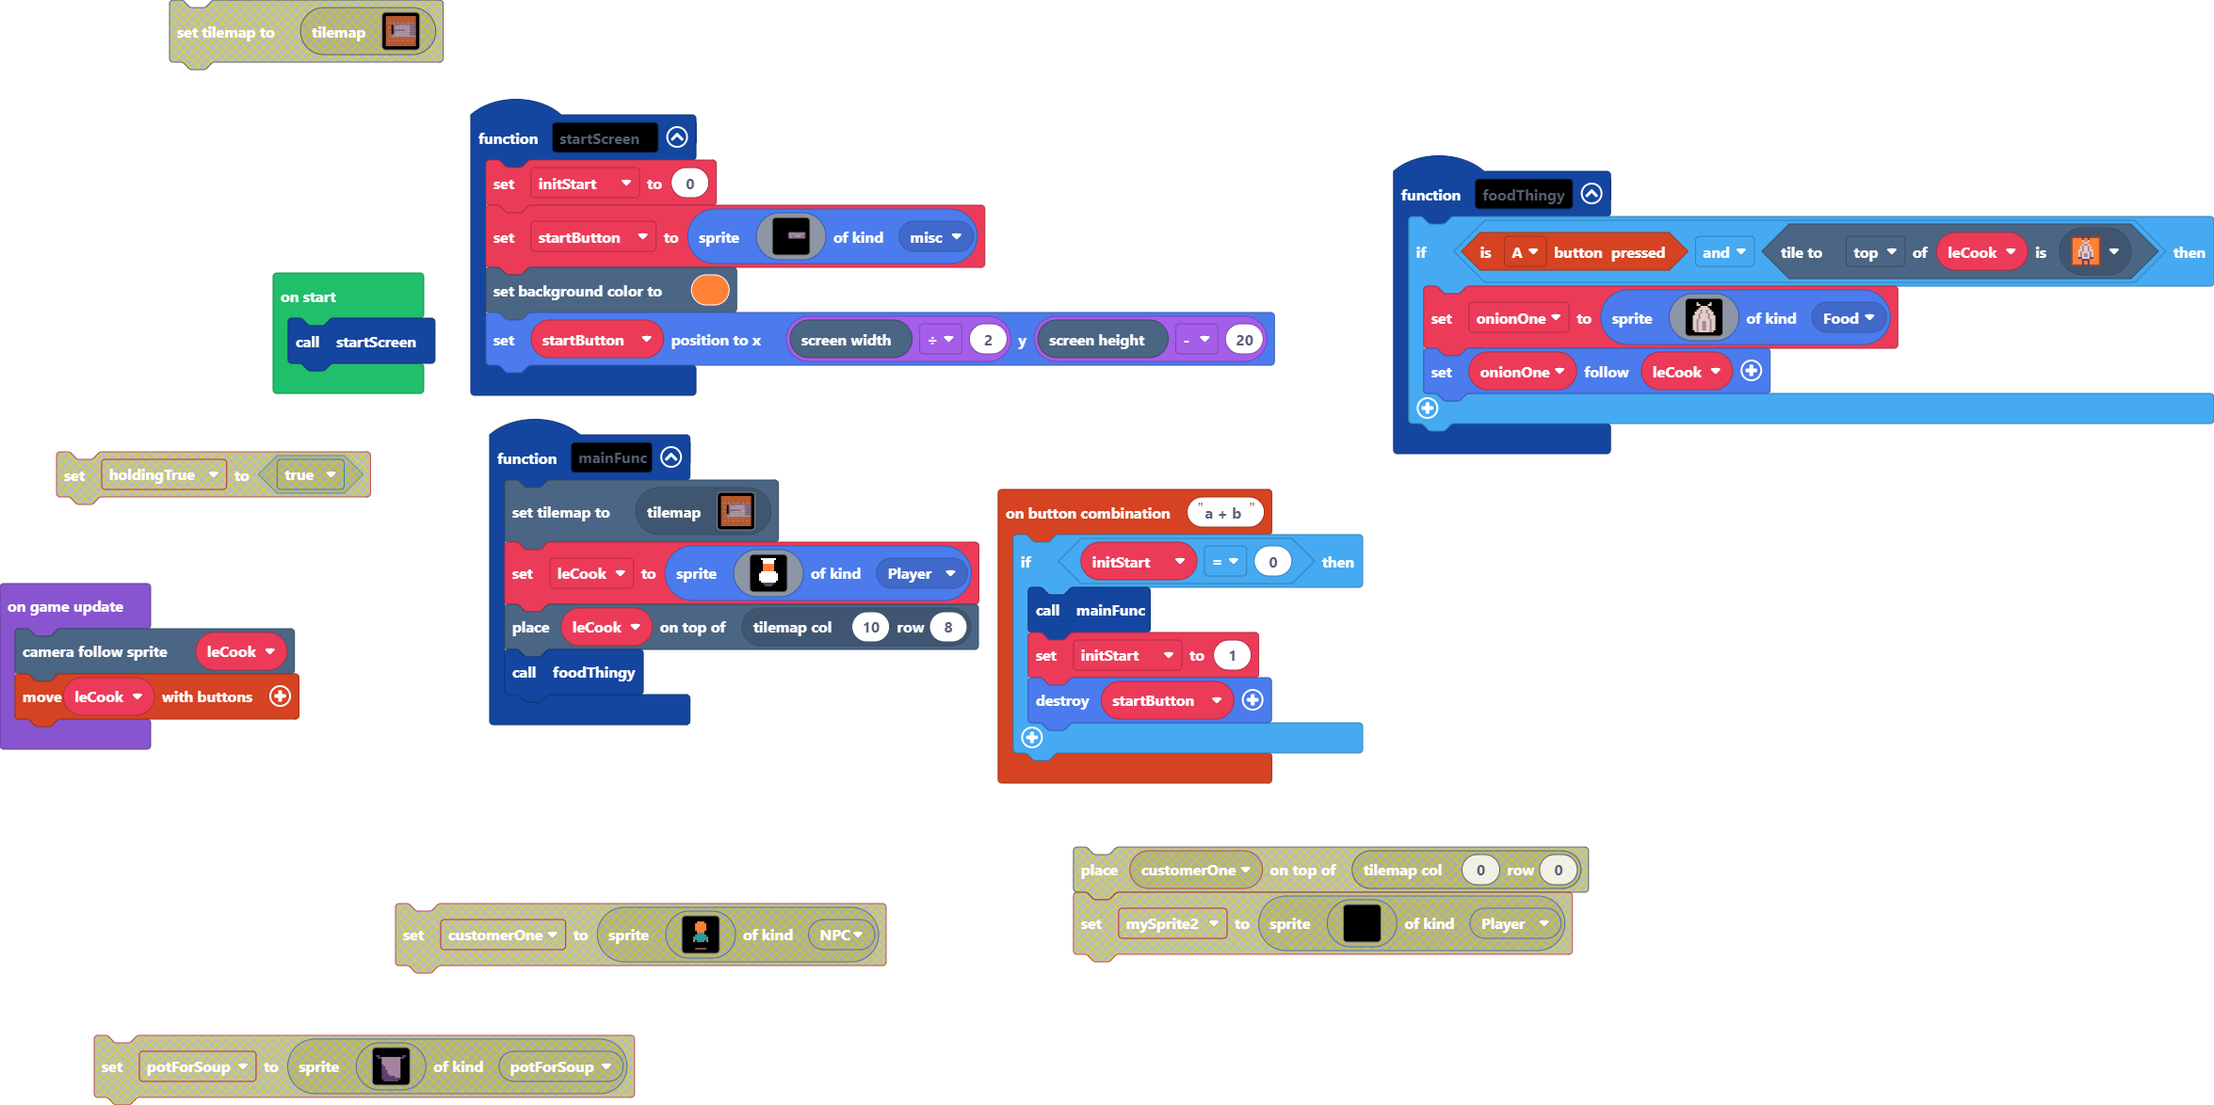
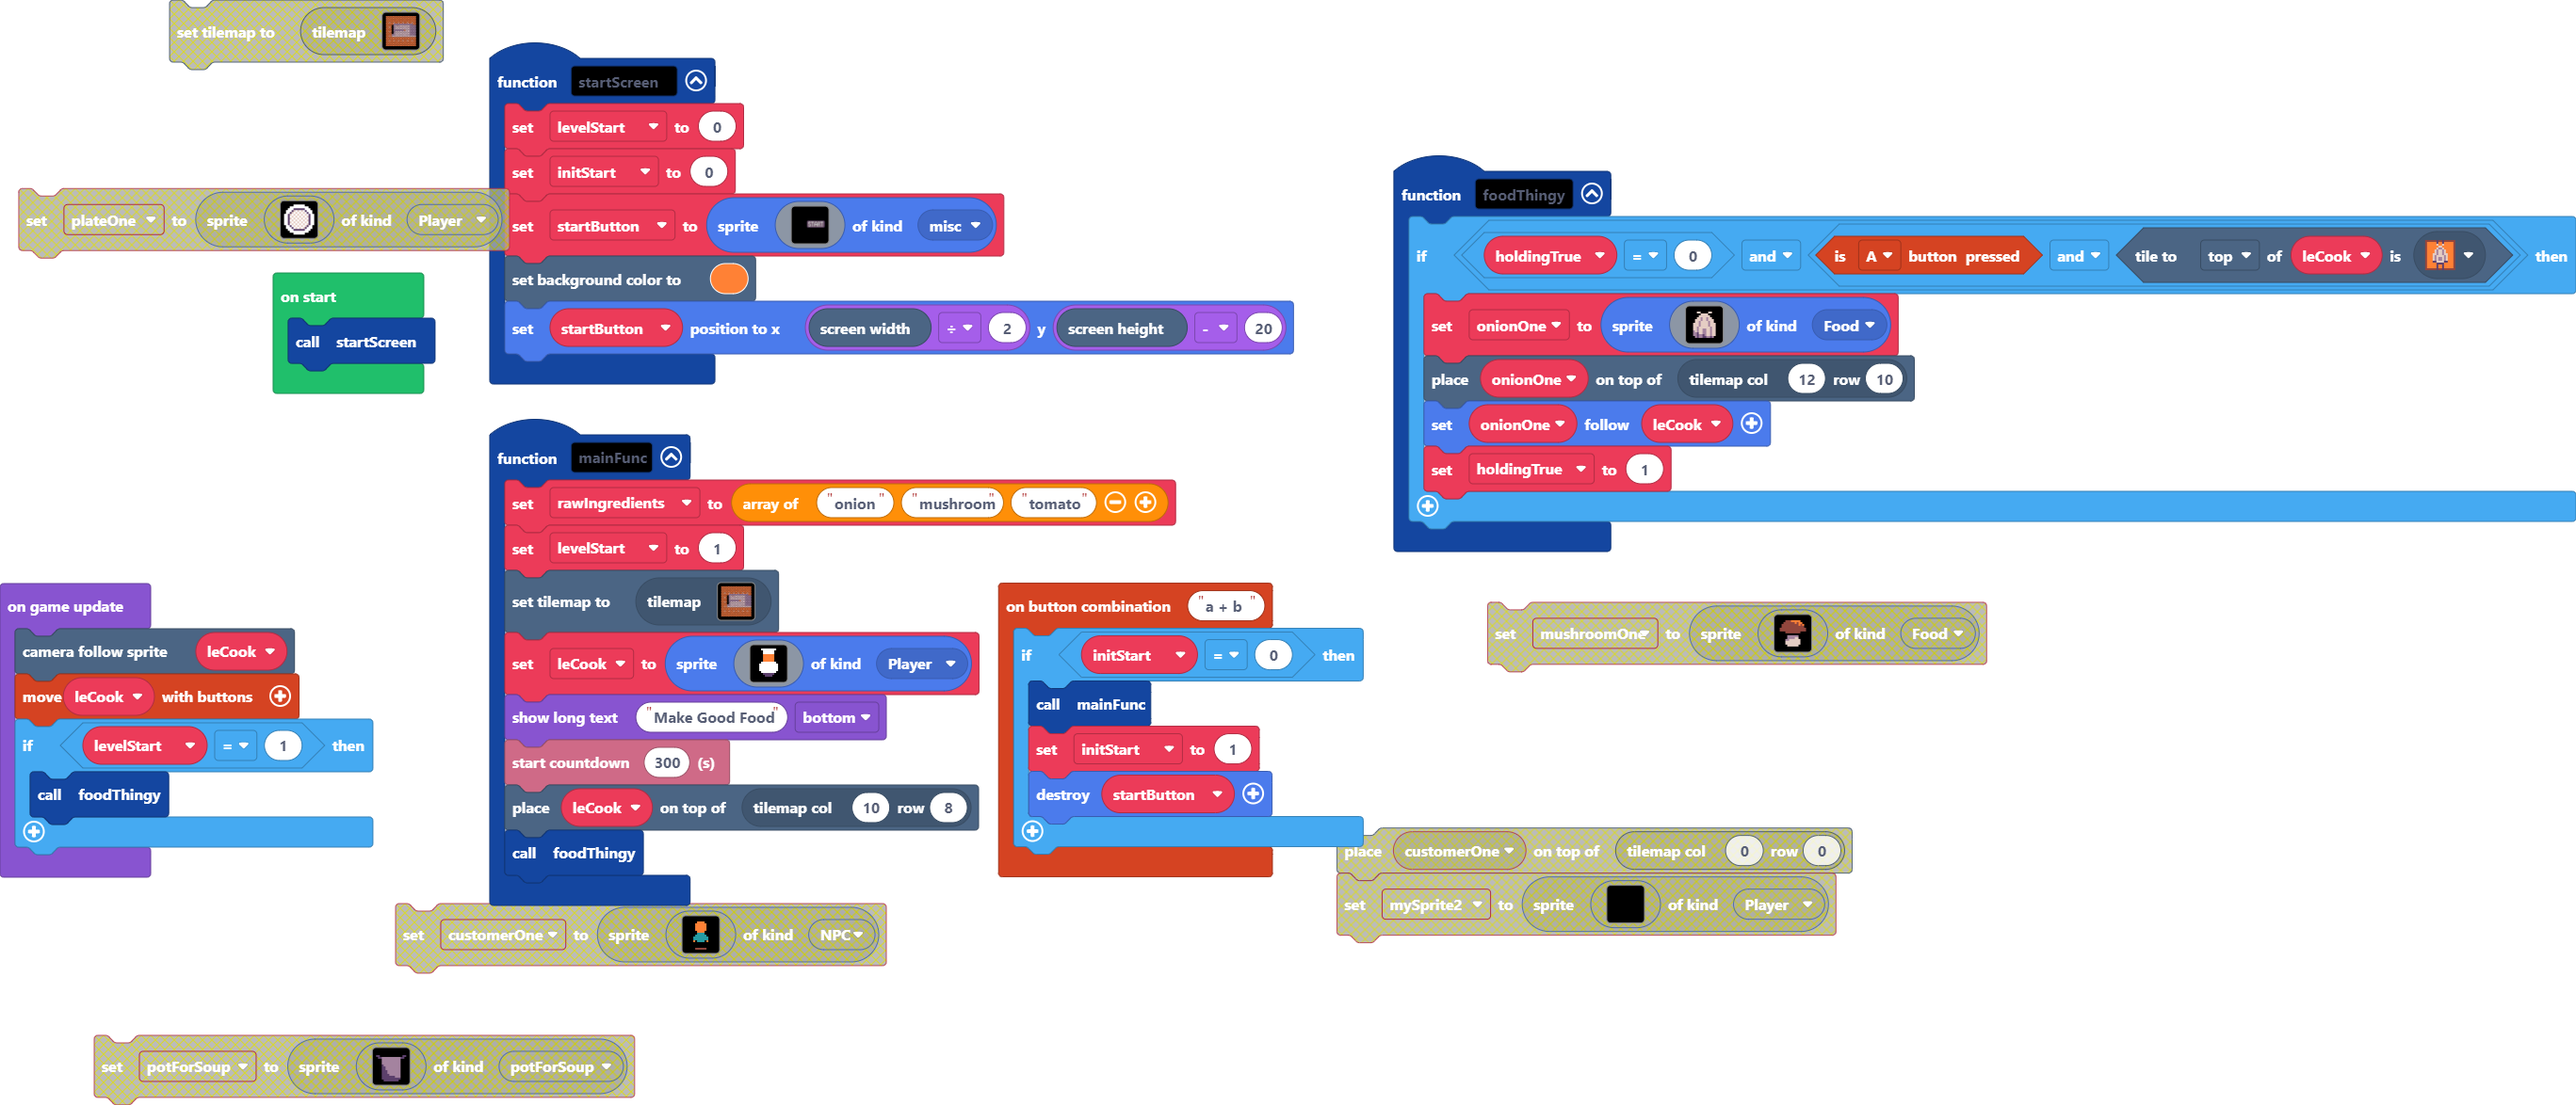
Update pxt.json, main.blocks, main.ts, images.g.jres, images.g.ts

diff --git a/main.ts b/main.ts
@@ -11,6 +11,8 @@ controller.combos.attachCombo("a + b", function () {
     }
 })
 function mainFunc () {
+    rawIngredients = ["onion", "mushroom", "tomato"]
+    levelStart = 1
     tiles.setCurrentTilemap(tilemap`level1`)
     leCook = sprites.create(img`
         . . . . 1 1 1 1 1 1 1 1 . . . . 
@@ -30,10 +32,13 @@ function mainFunc () {
         . . . . . . c c c c . . . . . . 
         . . . . f f f f f f f f . . . . 
         `, SpriteKind.Player)
+    game.showLongText("Make Good Food", DialogLayout.Bottom)
+    info.startCountdown(300)
     tiles.placeOnTile(leCook, tiles.getTileLocation(10, 8))
     foodThingy()
 }
 function startScreen () {
+    levelStart = 0
     initStart = 0
     startButton = sprites.create(img`
         ..............................................................
@@ -57,34 +62,25 @@ function startScreen () {
     startButton.setPosition(scene.screenWidth() / 2, scene.screenHeight() - 20)
 }
 function foodThingy () {
-    if (controller.A.isPressed() && leCook.tileKindAt(TileDirection.Top, assets.tile`myTile`)) {
-        onionOne = sprites.create(img`
-            . . . . d . . . . . . d . . . . 
-            . . . . d d . . . . d d . . . . 
-            . . . . . . d d d d . . . . . . 
-            . . . . . d d d d d d . . . . . 
-            . . . . d d b d d b d d . . . . 
-            . . . d d d b d d b d d d . . . 
-            . . . d d b d d d d b d d . . . 
-            . . d d d b d d d d b d d d . . 
-            . . d d d b d d d d b d d d . . 
-            . . d d b d d d d d d b d d . . 
-            . . d d b d d b b d d b d d . . 
-            . . d d b d d b b d d b d d . . 
-            . . d d b d d b b d d b d d . . 
-            . . d d b d d b b d d b d d . . 
-            . . d d b d d b b d d b d d . . 
-            . . . d b d d d d d d b d . . . 
-            `, SpriteKind.Food)
+    if (holdingTrue == 0 && (controller.A.isPressed() && leCook.tileKindAt(TileDirection.Top, assets.tile`myTile`))) {
+        onionOne = sprites.create(assets.image`Onion`, SpriteKind.Food)
+        tiles.placeOnTile(onionOne, tiles.getTileLocation(12, 10))
         onionOne.follow(leCook)
+        holdingTrue = 1
     }
 }
 let onionOne: Sprite = null
+let holdingTrue = 0
 let leCook: Sprite = null
+let levelStart = 0
+let rawIngredients: string[] = []
 let startButton: Sprite = null
 let initStart = 0
 startScreen()
 game.onUpdate(function () {
     scene.cameraFollowSprite(leCook)
     controller.moveSprite(leCook)
+    if (levelStart == 1) {
+        foodThingy()
+    }
 })

diff --git a/images.g.ts b/images.g.ts
@@ -1,0 +1,56 @@
+// Auto-generated code. Do not edit.
+namespace myImages {
+
+    helpers._registerFactory("image", function(name: string) {
+        switch(helpers.stringTrim(name)) {
+            case "image1":
+            case "mushRoom":return img`
+. . . . f f f f f f f f . . . . 
+. . . f e e e 4 4 4 4 4 f . . . 
+. . f e e e e e e 4 e 4 4 f . . 
+. f e e e e e e e e e 4 e 4 f . 
+. f e e e e e e e e e e e e f . 
+f e e e e e e e e e e e e e e f 
+f e e e e e e e e e e e e e e f 
+. f f f e e e e e e e e f f f . 
+. . . . f f f f f f f f . . . . 
+. . . . f b b b b b b f . . . . 
+. . . . f b b b b d d f . . . . 
+. . . f b b d d d d d d f . . . 
+. . . f d d d d d d d d f . . . 
+. . . f d d d d d d d d f . . . 
+. . . . f d d d d d d f . . . . 
+. . . . f f f f f f f f . . . . 
+`;
+            case "image2":
+            case "Onion":return img`
+. . . f f f . . . . f f f . . . 
+. . . f d d f f f f d d f . . . 
+. . . . f f d d d d f f f . . . 
+. . . . f d d d d d d f . . . . 
+. . . f d d b d d b d d f . . . 
+. . f d d d b d d b d d d f . . 
+. . f d d b d d d d b d d f . . 
+. f d d d b d d d d b d d d f . 
+. f d d d b d d d d b d d d f . 
+. f d d b d d d d d d b d d f . 
+. f d d b d d b b d d b d d f . 
+. f b d b d d b b d d b d d f . 
+. f b b c d d b b d d b d d f . 
+. f b b c b b c b d d b d d f . 
+. . f b c b b c c b b c b f . . 
+. . . f f f f f f f f f f . . . 
+`;
+        }
+        return null;
+    })
+
+    helpers._registerFactory("animation", function(name: string) {
+        switch(helpers.stringTrim(name)) {
+
+        }
+        return null;
+    })
+
+}
+// Auto-generated code. Do not edit.
